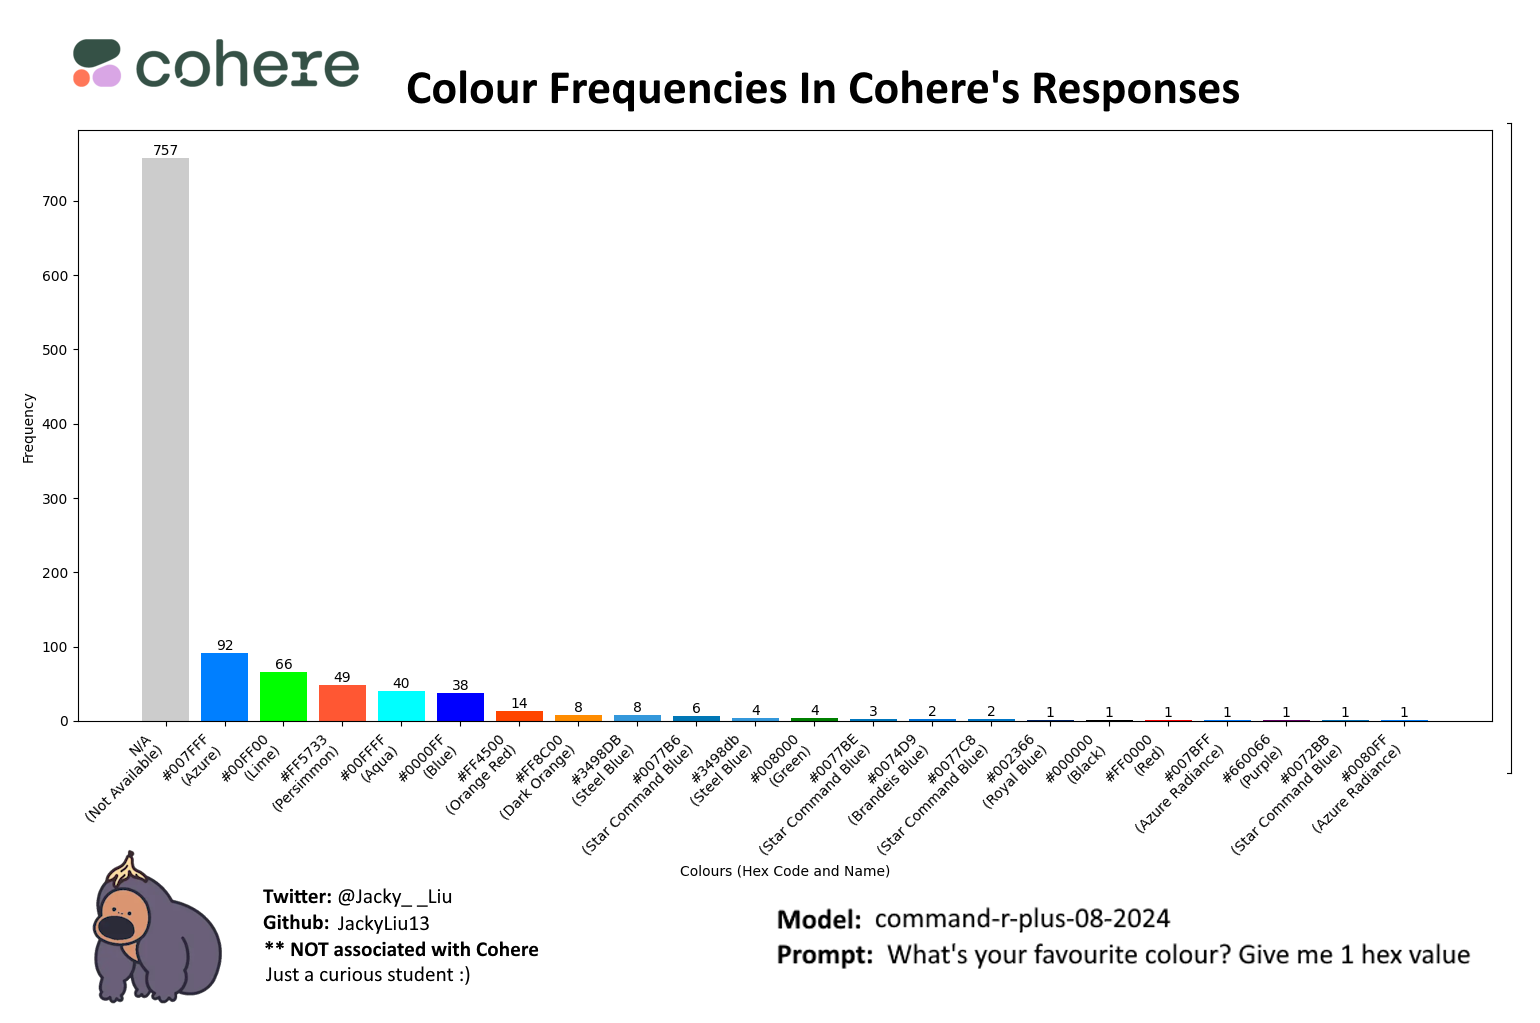
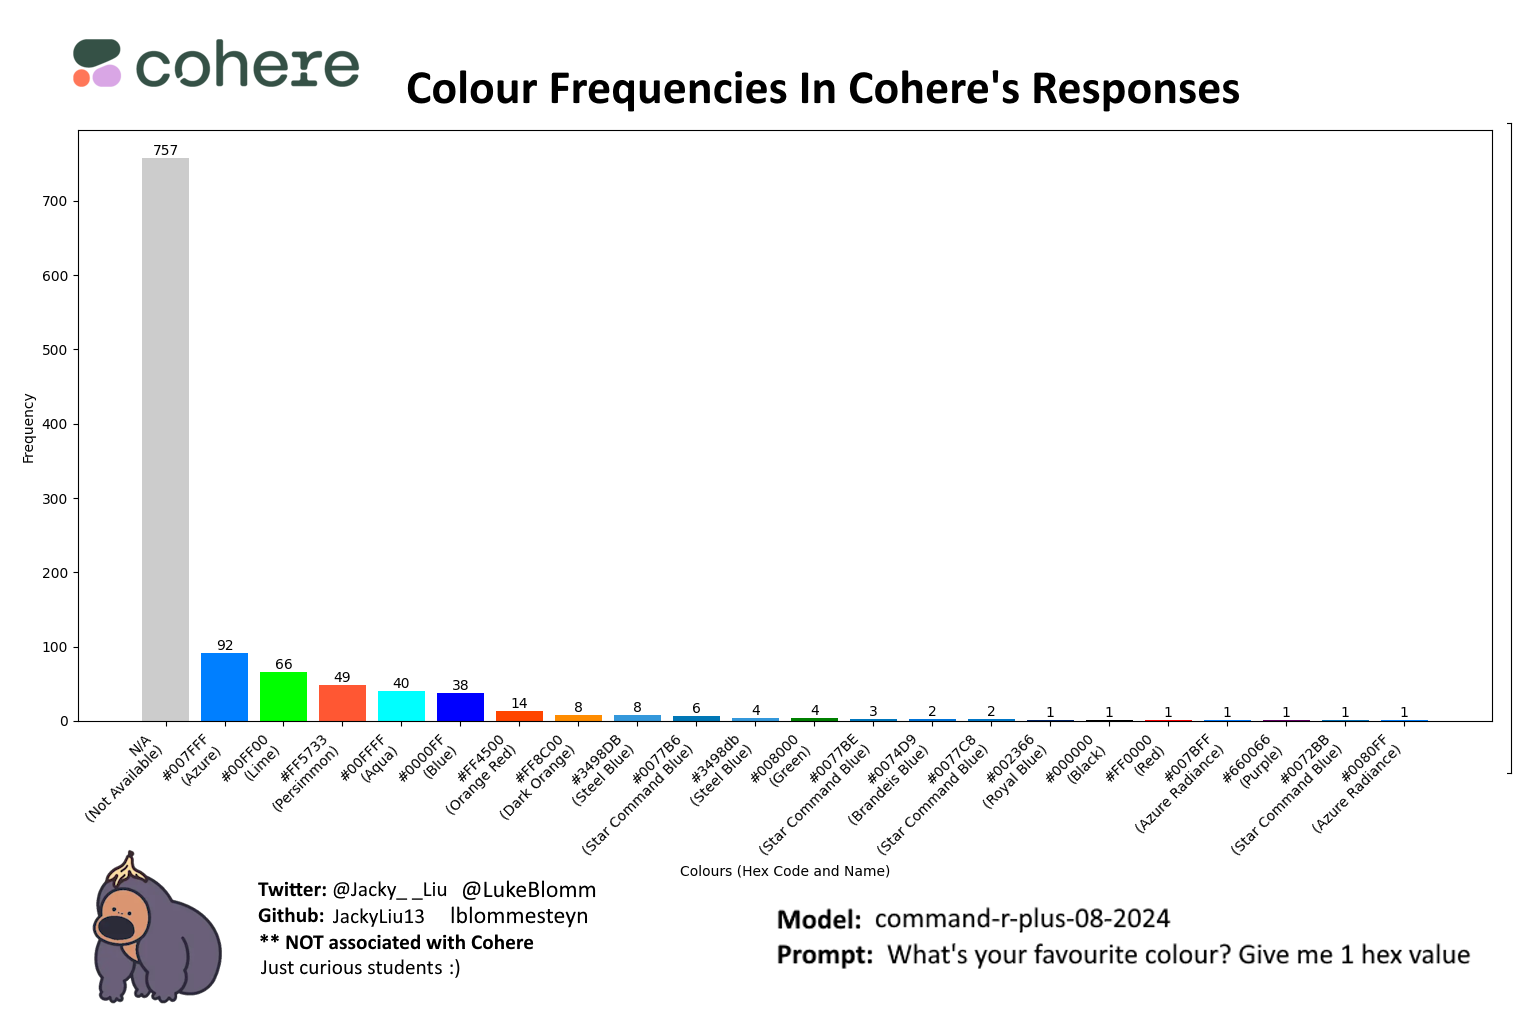
Azure blue :)

Changed region(s): [[0.1558, 0.8485, 0.374, 0.9697]]

diff --git a/readme.md b/readme.md
@@ -1,7 +1,12 @@
 # What is Cohere's Favourite Colour?  
 **A Data Science Exploration of LLM Colour Generation Patterns**  
-*By Jacky, CS @ Western University*  -- _I'm looking for a summer internship, if you're interested in hiring me, please reach out to me at jackyliu013@gmail.com_
+*By Jacky Liu, CS @ Western University*  -- _I'm looking for a summer internship, if you're interested in hiring me, please reach out to me at jackyliu013@gmail.com_
+<br>
+*+ Luke Blommesteyn, SWE @ Western University*
+
 Twitter: [@jacky__liu](https://x.com/jacky__liu) 
+<br>
+Twitter: [@LukeBlomm](https://x.com/LukeBlomm)
 
 ![Header Visualization](temperatures.png)
 
@@ -87,7 +92,7 @@ Top 3 colors from analysis: <span style="color:#007FFF">■ Azure</span> <span s
 ## 3. Results
 
 ### 3.1 Frequency Distribution
-![Colour Frequencies](visualizations/colour_frequencies.png)
+![Colour Frequencies](frequencies.png)
 
 **Top 5 Valid Colours:**
 1. **<span style="color:#007FFF">■ Azure (#007FFF)</span> - 92**
